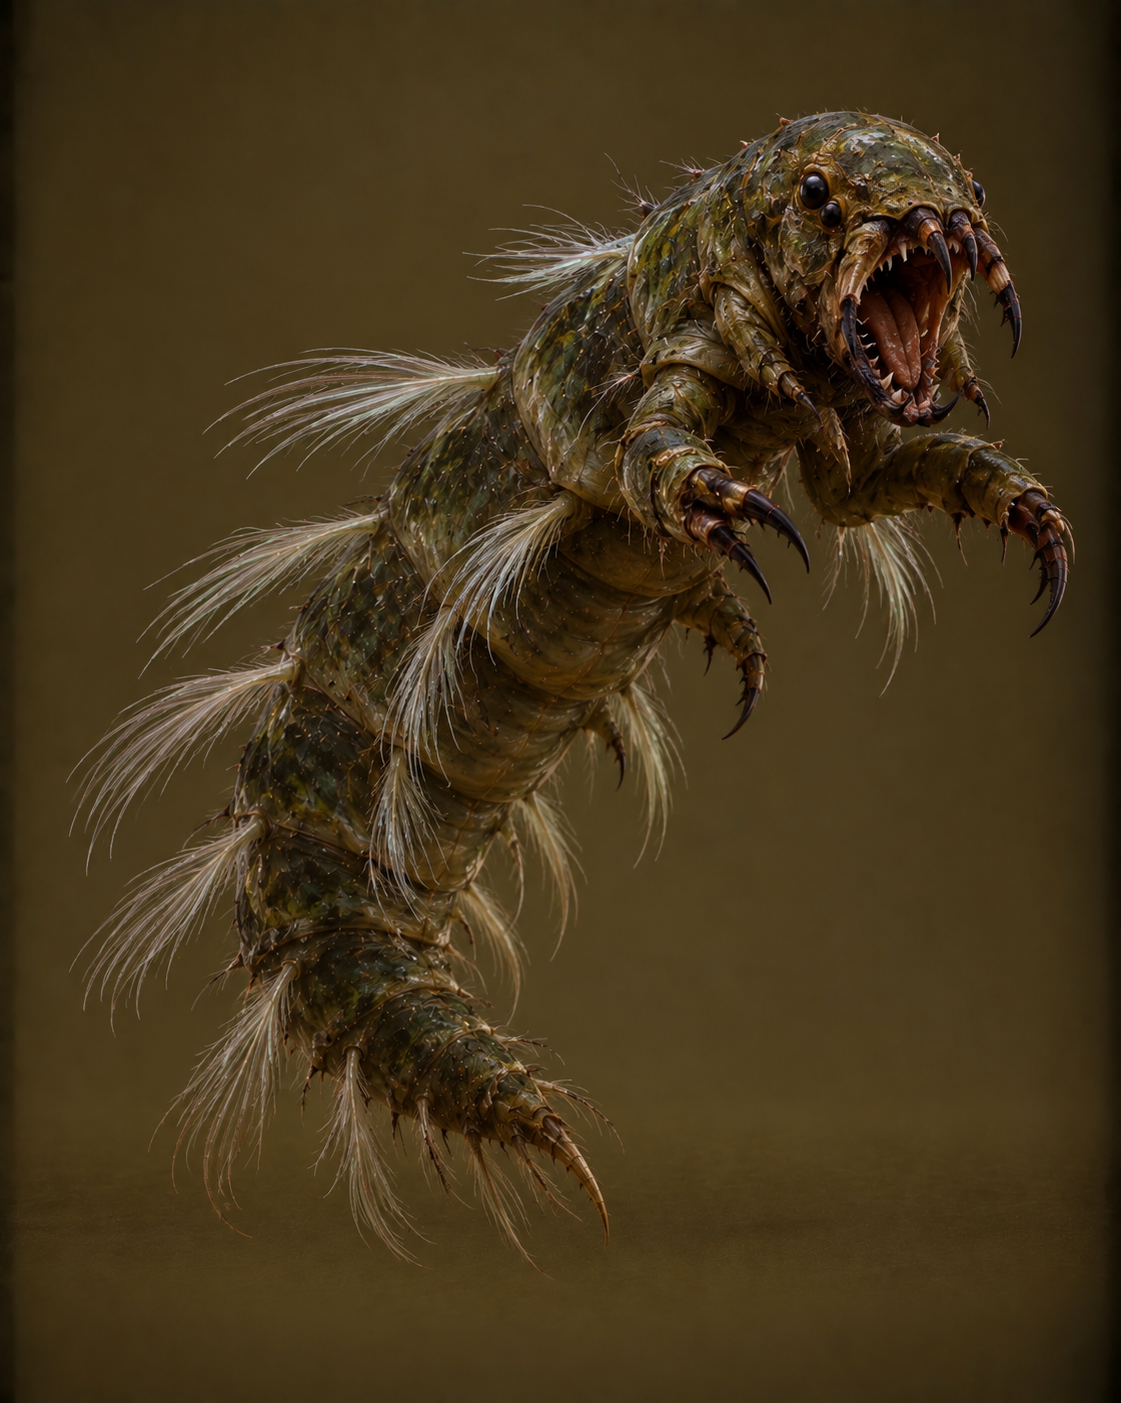
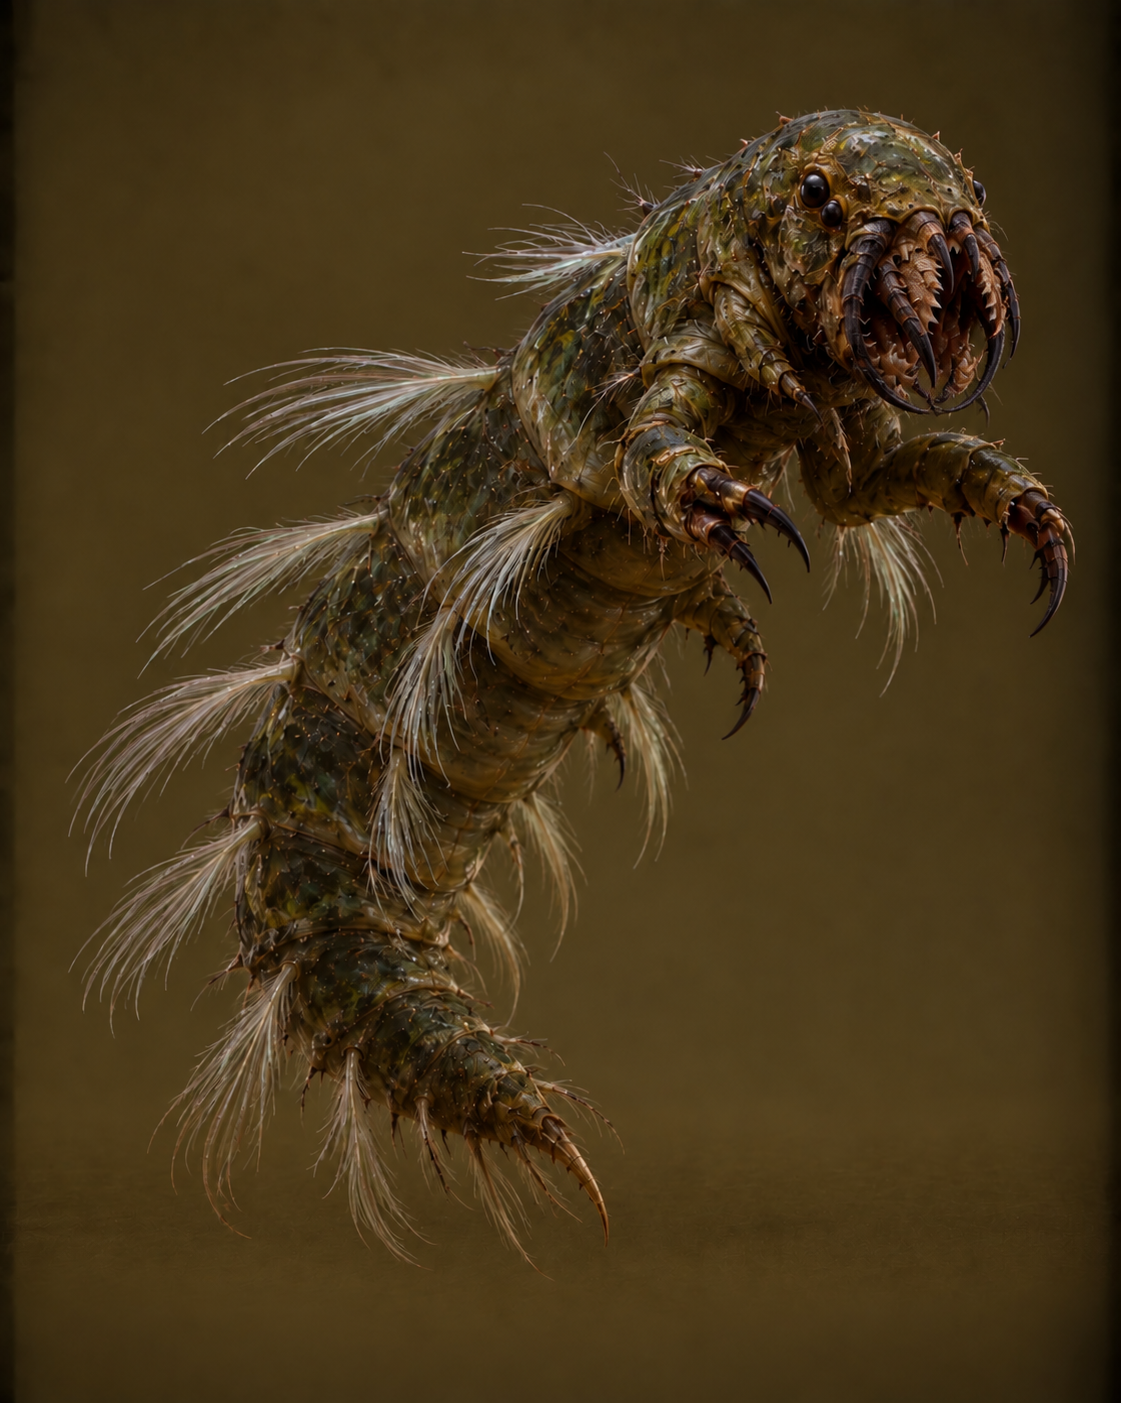
mariposa casa

diff --git a/src/data/insetos.ts b/src/data/insetos.ts
@@ -2270,6 +2270,10 @@ Sua aparência peluda, aliada à sujeira e ao lodo que permanecem sobre seu corp
 Apesar de inofensivo, costuma causar pavor quando é encontrado. Dificilmente alguém consegue identificar imediatamente onde está seu verdadeiro rosto, confundindo a carranca formada pelas asas com a face de uma criatura muito maior.
 
 Muitos fogem antes de perceber que o terrível monstro que encontraram estava apenas parado, esperando por uma Sirêntria.`;
+const descricaoAssustrutora = ``;
+const descricaoFortrutura = ``;
+const descricaoRecluzela = ``;
+const descricaoBesteriano = ``;
 
 const dadosPendentes = {
   caracteristicas: [] as string[],
@@ -3952,6 +3956,60 @@ export const insetos: Inseto[] = [
     tags: ['mariposas'],
     evolucoes: [],
     evolucaoDe: [{ insetoId: 'pupandoura', tipo: 'linear' }],
+    tipoEvolucao: 'ramificada',
+  },
+  {
+    id: 'assustrutora',
+    nome: 'Assustrutora',
+    nomeIngles: 'Frightructor',
+    imagem: '/images/mariposas/assustrutora.png',
+    descricao: descricaoAssustrutora,
+    linhagem: 'mariposas',
+    estagio: 'forma inicial',
+    ...dadosPendentes,
+    tags: ['mariposas'],
+    evolucoes: [{ insetoId: 'fortrutura', tipo: 'linear' }],
+  },
+  {
+    id: 'fortrutura',
+    nome: 'Fortrutura',
+    nomeIngles: 'Fortructure',
+    imagem: '/images/mariposas/fortrutura.png',
+    descricao: descricaoFortrutura,
+    linhagem: 'mariposas',
+    estagio: 'forma casulo',
+    ...dadosPendentes,
+    tags: ['mariposas'],
+    evolucoes: [{ insetoId: 'recluzela', tipo: 'ramificada' }, { insetoId: 'besteriano', tipo: 'ramificada' }],
+    evolucaoDe: [{ insetoId: 'assustrutora', tipo: 'linear' }],
+    tipoEvolucao: 'linear',
+  },
+  {
+    id: 'recluzela',
+    nome: 'Recluzela',
+    nomeIngles: 'Reclusel',
+    imagem: '/images/mariposas/recluzela.png',
+    descricao: descricaoRecluzela,
+    linhagem: 'mariposas',
+    estagio: 'forma final',
+    ...dadosPendentes,
+    tags: ['mariposas'],
+    evolucoes: [],
+    evolucaoDe: [{ insetoId: 'fortrutura', tipo: 'linear' }],
+    tipoEvolucao: 'ramificada',
+  },
+  {
+    id: 'besteriano',
+    nome: 'Besteriano',
+    nomeIngles: 'Beastherian',
+    imagem: '/images/mariposas/besteriano.png',
+    descricao: descricaoBesteriano,
+    linhagem: 'mariposas',
+    estagio: 'forma final',
+    ...dadosPendentes,
+    tags: ['mariposas'],
+    evolucoes: [],
+    evolucaoDe: [{ insetoId: 'fortrutura', tipo: 'linear' }],
     tipoEvolucao: 'ramificada',
   },
   {

diff --git a/src/data/linhagens.ts b/src/data/linhagens.ts
@@ -194,7 +194,7 @@ export const linhagens: Linhagem[] = [
     descricao: descricaoMariposas,
     imagemCapa: '/images/mariposas/capa.png',
     tema: '#4A365F',
-    criaturas: ['serpreita', 'maligroso', 'mortiposa', 'carnicalha', 'mortume', 'decreptera', 'laranharta', 'enjaulupa', 'lunaranha', 'wendivora', 'restritupa', 'hematocrata', 'paplicata','pupargula','harpitera', 'zunambularva', 'esporantalho', 'assombralada', 'mumifigarta', 'sarcosulo', 'isetyx', 'erubis', 'falsilha','aberrosulo','frankaptera','frankopata','ipupiarta','tesaurea','sirentria','carrantano','flamecante','pupandoura','gorgondusa','quimerydra', 'fantasioche','apotroche','polterposa','chapelirio', 'manicumulo','gargalhaco'],
+    criaturas: ['serpreita', 'maligroso', 'mortiposa', 'carnicalha', 'mortume', 'decreptera', 'laranharta', 'enjaulupa', 'lunaranha', 'wendivora', 'restritupa', 'hematocrata', 'paplicata','pupargula','harpitera', 'zunambularva', 'esporantalho', 'assombralada', 'mumifigarta', 'sarcosulo', 'isetyx', 'erubis', 'falsilha','aberrosulo','frankaptera','frankopata','ipupiarta','tesaurea','sirentria','carrantano','flamecante','pupandoura','gorgondusa','quimerydra', 'assustrutora','fortrutura','recluzela','besteriano','fantasioche','apotroche','polterposa','chapelirio', 'manicumulo','gargalhaco'],
   },
   {
     id: 'mosquitos',
